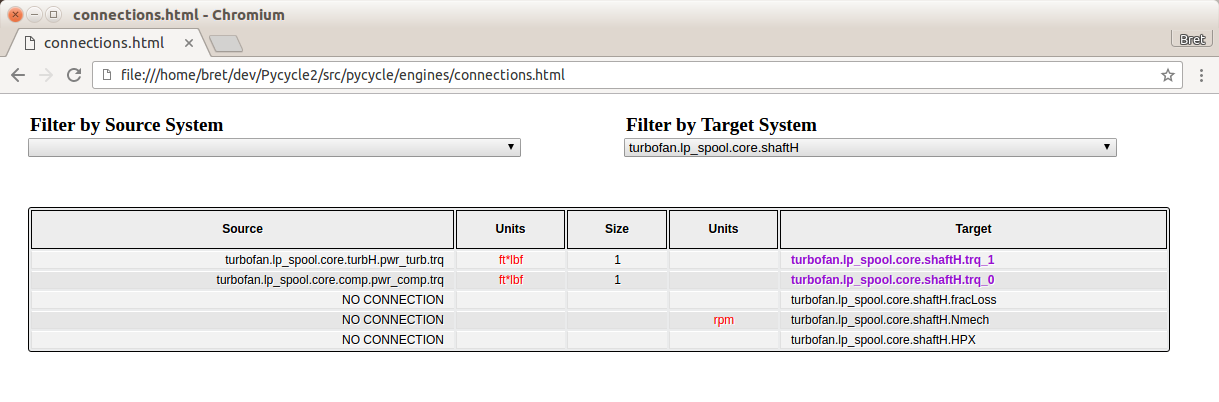
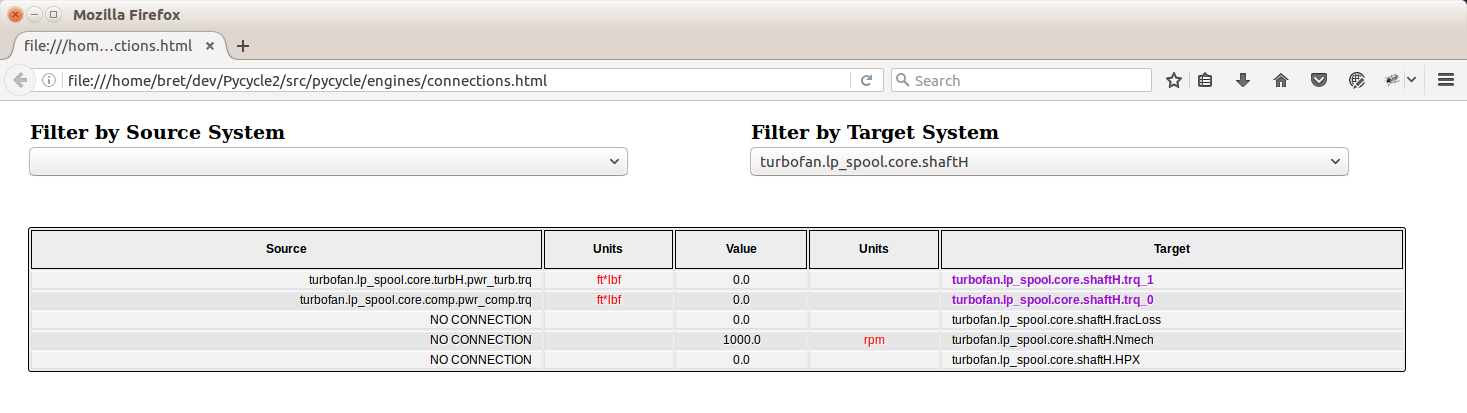
added popup viewer for connection table value entries that are too long to fit in a cell.

diff --git a/openmdao/util/connect_table.html b/openmdao/util/connect_table.html
@@ -76,6 +76,18 @@ table tr:hover td {
 	background: #ccffff;
 }
 
+.buttonish {
+  font: bold 11px Arial;
+  text-decoration: none;
+  background-color: #EEEEEE;
+  color: #333333;
+  padding: 2px 6px 2px 6px;
+  border-top: 1px solid #CCCCCC;
+  border-right: 1px solid #333333;
+  border-bottom: 1px solid #333333;
+  border-left: 1px solid #CCCCCC;
+}
+
 #conn_table {
     width: 95%;
 }
@@ -105,44 +117,33 @@ h3 {
     padding: 1px;
 }
 
-.modal {
+#arrayModal{
     display: none; /* Hidden by default */
-    position: fixed; /* Stay in place */
-    z-index: 1; /* Sit on top */
-    padding-top: 100px; /* Location of the box */
-    left: 0;
-    top: 0;
-    width: 100%; /* Full width */
-    height: 100%; /* Full height */
-    overflow: auto; /* Enable scroll if needed */
     background-color: rgb(0,0,0); /* Fallback color */
     background-color: rgba(0,0,0,0.4); /* Black w/ opacity */
+    height: 100%;
+    left: 0;
+    margin: 0;
+    padding: 0;
+    position: absolute;
+    top: 0;
+    width: 100%;
+    z-index: 1;
 }
-
-/* Modal Content */
-.modal-content {
+#modalText {
+    background: none repeat scroll 0 0 rgba(0, 0, 0, 0);
+    font-family:Courier New, Courier, monospace;
     background-color: #fefefe;
-    margin: auto;
-    padding: 20px;
     border: 1px solid #888;
-    width: 80%;
+    height: 200px;
+    left: 50%;
+    margin-left: -200px;
+    margin-top: -100px;
+    position: fixed;
+    top: 50%;
+    width: 400px;
+    overflow: auto; /* Enable scroll if needed */
 }
-
-/* The Close Button */
-.close {
-    color: #aaaaaa;
-    float: right;
-    font-size: 28px;
-    font-weight: bold;
-}
-
-.close:hover,
-.close:focus {
-    color: #000;
-    text-decoration: none;
-    cursor: pointer;
-}
-
 </style>
 </head>
 <body>
@@ -164,7 +165,7 @@ var modal;
 var span;
 var modal_text;
 
-window.onresize = resize;
+window.onresize = fill_vars;
 
 window.onload = function() {
 
@@ -186,13 +187,7 @@ window.onload = function() {
     document.getElementById("tgt_filter").value = tgt_prefix
 
     modal = document.getElementById("arrayModal");
-    modal_text = document.getElementById("modal_text");
-    span = document.getElementById("closer");
-
-    // When the user clicks on <span> (x), close the modal
-    span.onclick = function() {
-        modal.style.display = "none";
-    }
+    modal_text = document.getElementById("modalText");
 
     // When the user clicks anywhere outside of the modal, close it
     window.onclick = function(event) {
@@ -201,10 +196,6 @@ window.onload = function() {
         }
     }
 
-    fill_vars();
-}
-
-function resize() {
     fill_vars();
 }
 
@@ -244,10 +235,11 @@ function fill_vars() {
                 rows.push({
                     "Unknowns": noconn_srcs[i],
                     "UUnits": units[noconn_srcs[i]],
-                    "Value": "",
+                    "Value": vals[noconn_srcs[i]],
                     "PUnits": "",
                     "Params": tgt_prefix,
                     "in_scope": true,
+                    "needs_viewer": vals[noconn_srcs[i]].length > 20,
                 });
             }
         }
@@ -278,6 +270,7 @@ function fill_vars() {
                             "PUnits": units[tgt],
                             "Params": tgt,
                             "in_scope": in_scope,
+                            "needs_viewer": vals[tgt].length > 20,
                         });
                     }
                 }
@@ -304,7 +297,6 @@ function tabulate(data, columns) {
 
     var udiff;
     var in_scope;
-    var is_array;
 
     // create a cell in each row for each column
     var cells = rows.selectAll("td")
@@ -312,7 +304,6 @@ function tabulate(data, columns) {
             return columns.map(function(column) {
                 in_scope = true;
                 udiff = false;
-                is_array = false;
 
                 // find different units
                 if (column == "UUnits") {
@@ -325,16 +316,12 @@ function tabulate(data, columns) {
                     in_scope = row["in_scope"];
                 }
 
-                if (column === "Value" && row[column].startsWith("[")) {
-                    is_array = true;
-                }
-
                 return {
                     column: column,
                     "value": row[column],
                     "udiff": udiff,
                     "in_scope": in_scope,
-                    "is_array": is_array,
+                    "needs_viewer": (row["needs_viewer"] && column === "Value"),
                 };
             });
         })
@@ -342,22 +329,21 @@ function tabulate(data, columns) {
         .append("td")
         .classed("unit_diff", function(d) { return d.udiff; })
         .classed("outscope", function(d) { return !d.in_scope; })
+        .classed("buttonish", function(d) {
+            return (d.needs_viewer);
+        })
         .text(function(d) {
-            if (d.is_array) {
-                return "View Array";
+            if (d.needs_viewer) {
+                return "View";
             }
             else {
                 return d.value;
             }
         })
         .on("click", function(d) {
-            if (d.is_array) {
+            if (d.needs_viewer) {
                 modal_text.textContent = d.value;
                 modal.style.display = "block";
-                //alert(d.value);
-            }
-            else {
-                // do nothing
             }
         });
 
@@ -400,13 +386,11 @@ function tgt_system_changed() {
          <tbody>
          </tbody>
         </table>
-    </div>
-
-    <div id="arrayModal" class="modal">
-      <div class="modal-content">
-        <span id="closer" class="close">×</span>
-        <p id="modal_text">array goes here...</p>
-      </div>
+        <div id="arrayModal">
+            <div id="modalText">
+                array goes here...
+            </div>
+        </div>
     </div>
 
 </body>

diff --git a/openmdao/util/viewconns.py b/openmdao/util/viewconns.py
@@ -61,23 +61,39 @@ def view_connections(root, outfile='connections.html', show_browser=True,
 
     vals = {}
 
-    with printoptions(precision=precision, suppress=True):
-        for t in system._params_dict:
+    with printoptions(precision=precision, suppress=True, threshold=10000):
+        for t, tmeta in iteritems(system._params_dict):
             if t in connections:
-                s, idxs =connections[t]
+                s, idxs = connections[t]
                 if idxs is not None:
                     val = system.unknowns[to_prom[s]][idxs]
                 else:
                     val = system.unknowns[to_prom[s]]
 
-                vals[t] = str(val)
+                # if there's a unit conversion, express the value in the
+                # units of the target
+                if 'unit_conv' in tmeta:
+                    scale, offset = tmeta['unit_conv']
+                    val = (val + offset) * scale
 
                 if s not in src2tgts:
                     src2tgts[s] = [t]
                 else:
                     src2tgts[s].append(t)
             else: # unconnected param
-                vals[t] = str(system._params_dict[t]['val'])
+                val = system._params_dict[t]['val']
+
+            if isinstance(val, numpy.ndarray):
+                val = numpy.array2string(val)
+            else:
+                val = str(val)
+
+            vals[t] = val
+
+        noconn_srcs = sorted((n for n in system._unknowns_dict
+                               if n not in src2tgts), reverse=True)
+        for s in noconn_srcs:
+            vals[s] = str(system.unknowns[to_prom[s]])
 
     vals['NO CONNECTION'] = ''
 
@@ -110,8 +126,7 @@ def view_connections(root, outfile='connections.html', show_browser=True,
         'vals': vals,
         'src_systems': src_systems,
         'tgt_systems': tgt_systems,
-        'noconn_srcs': sorted((n for n in system._unknowns_dict
-                               if n not in src2tgts), reverse=True),
+        'noconn_srcs': noconn_srcs,
         'src_filter': src_filter,
         'tgt_filter': tgt_filter,
     }

diff --git a/openmdao/docs/usr-guide/tutorials/detailed-connection-viewer.rst b/openmdao/docs/usr-guide/tutorials/detailed-connection-viewer.rst
@@ -8,7 +8,7 @@ This tutorial describes how to view detailed information about connections
 between variables in your model using the *view_connections* function.
 The intent of *view_connections* is to help spot things like bad or missing
 unit conversions, connections to inputs that are either unintended or missing,
-or input variables that are the wrong size.  In many cases, the *view_tree*
+or variables that have the wrong value.  In many cases, the *view_tree*
 function, described in
 :ref:`Visualizing OpenMDAO Model Structure and Connections <OpenMDAO-Visualizing-Model-Connections>`
 may provide a faster way to spot missing or unintended connections.
@@ -54,13 +54,24 @@ The following shows what the viewer looks like for a pycycle turbofan model:
 
 
 Source variables are shown in the left column, followed by a column containing
-their units.  The center column contains the value of the target variable if it
-is a scalar.  If the variable is an array, the column entry will be a button
-that will pop up an array viewer for that variable.  The values in this column
-are displayed in the units of the source variable. The value column is
-followed by the units and finally the name of the target variable.  Units are
-highlighted in red when the unit string on the source differs from the one on
-the target.
+their units.  The center column contains the value of the target variable.  
+If the variable is an array or any other object with a string
+representation of more than 20 characters, the column entry is a **View** button
+that will pop up a very simple viewer for that variable when you click on it.
+The following figure shows what the viewer looks like. To make the viewer go away,
+just click anywhere in the area outside of it.
+
+
+.. figure:: images/connections_popup.png
+   :align: center
+   :alt: An example of an array entry viewer popup.
+
+
+
+The entries in the value column are displayed in the units of the target variable,
+except when looking at unconnected source variables. The value column is
+followed by the target units and finally the name of the target variable.
+Units are highlighted in red when the source unit differs from the target unit.
 
 Note the scrollbar on the right, which is necessary due to the large number of
 connections found in the turbofan model.  Using the **Filter by Source System**

diff --git a/openmdao/docs/usr-guide/tutorials.rst b/openmdao/docs/usr-guide/tutorials.rst
@@ -10,6 +10,7 @@ Tutorials
 
    tutorials/paraboloid-tutorial.rst
    tutorials/visualizing-model-connections.rst
+   tutorials/detailed-connection-viewer.rst
    tutorials/sellar.rst
    tutorials/recording.rst
    tutorials/doe-drivers.rst
@@ -20,5 +21,4 @@ Tutorials
    tutorials/file-wrapping-tutorial.rst
    tutorials/beam-sizing.rst
    tutorials/profiling.rst
-   tutorials/detailed-connection-viewer.rst
    tutorials/subproblem.rst
